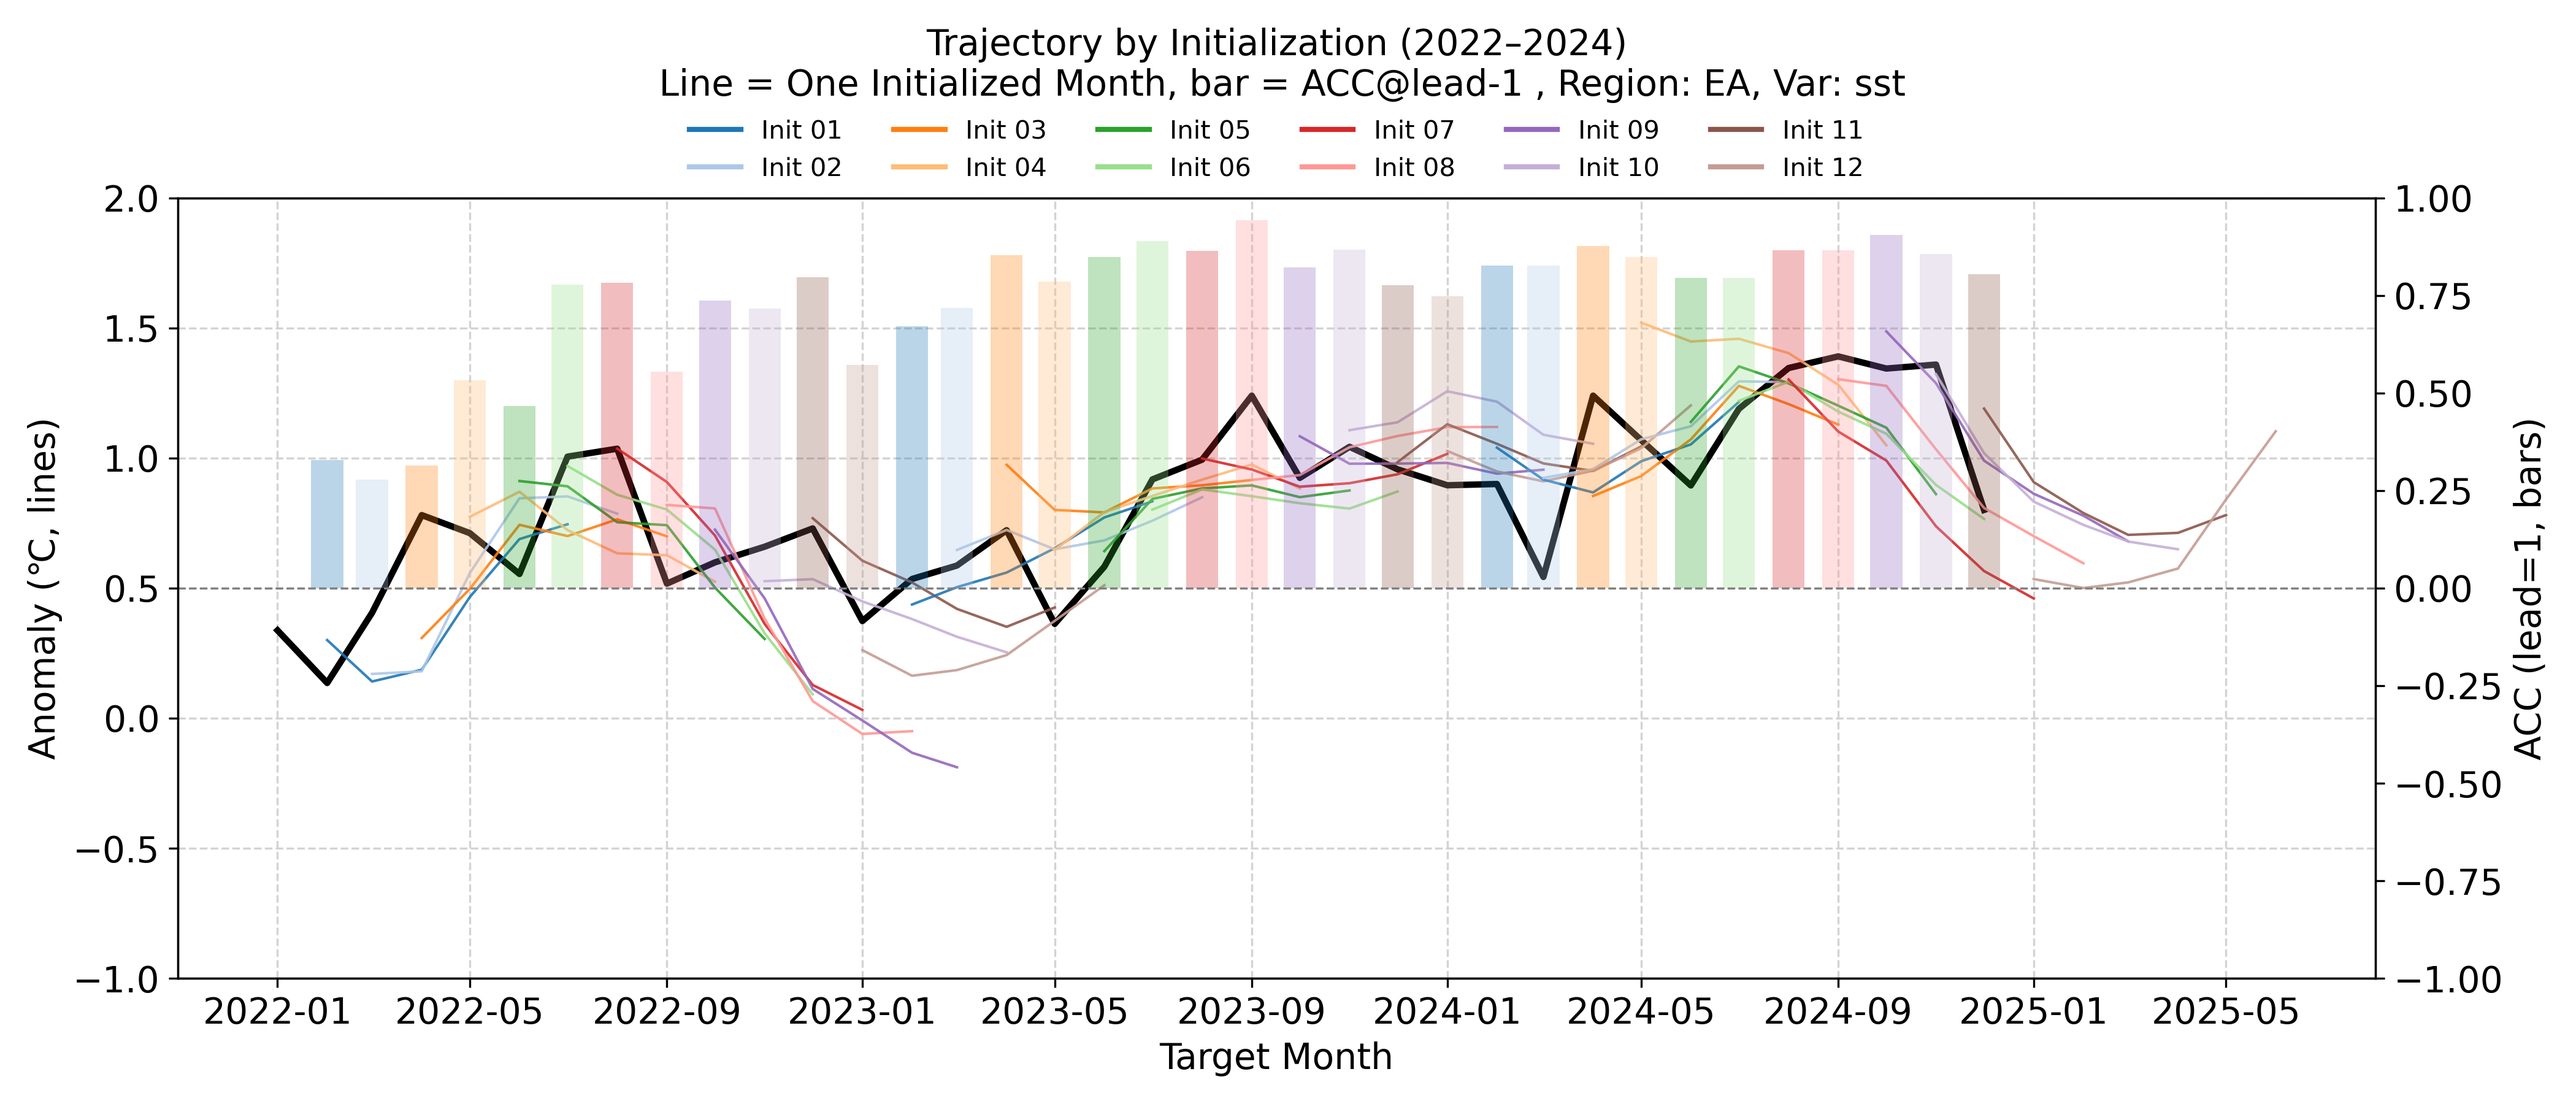
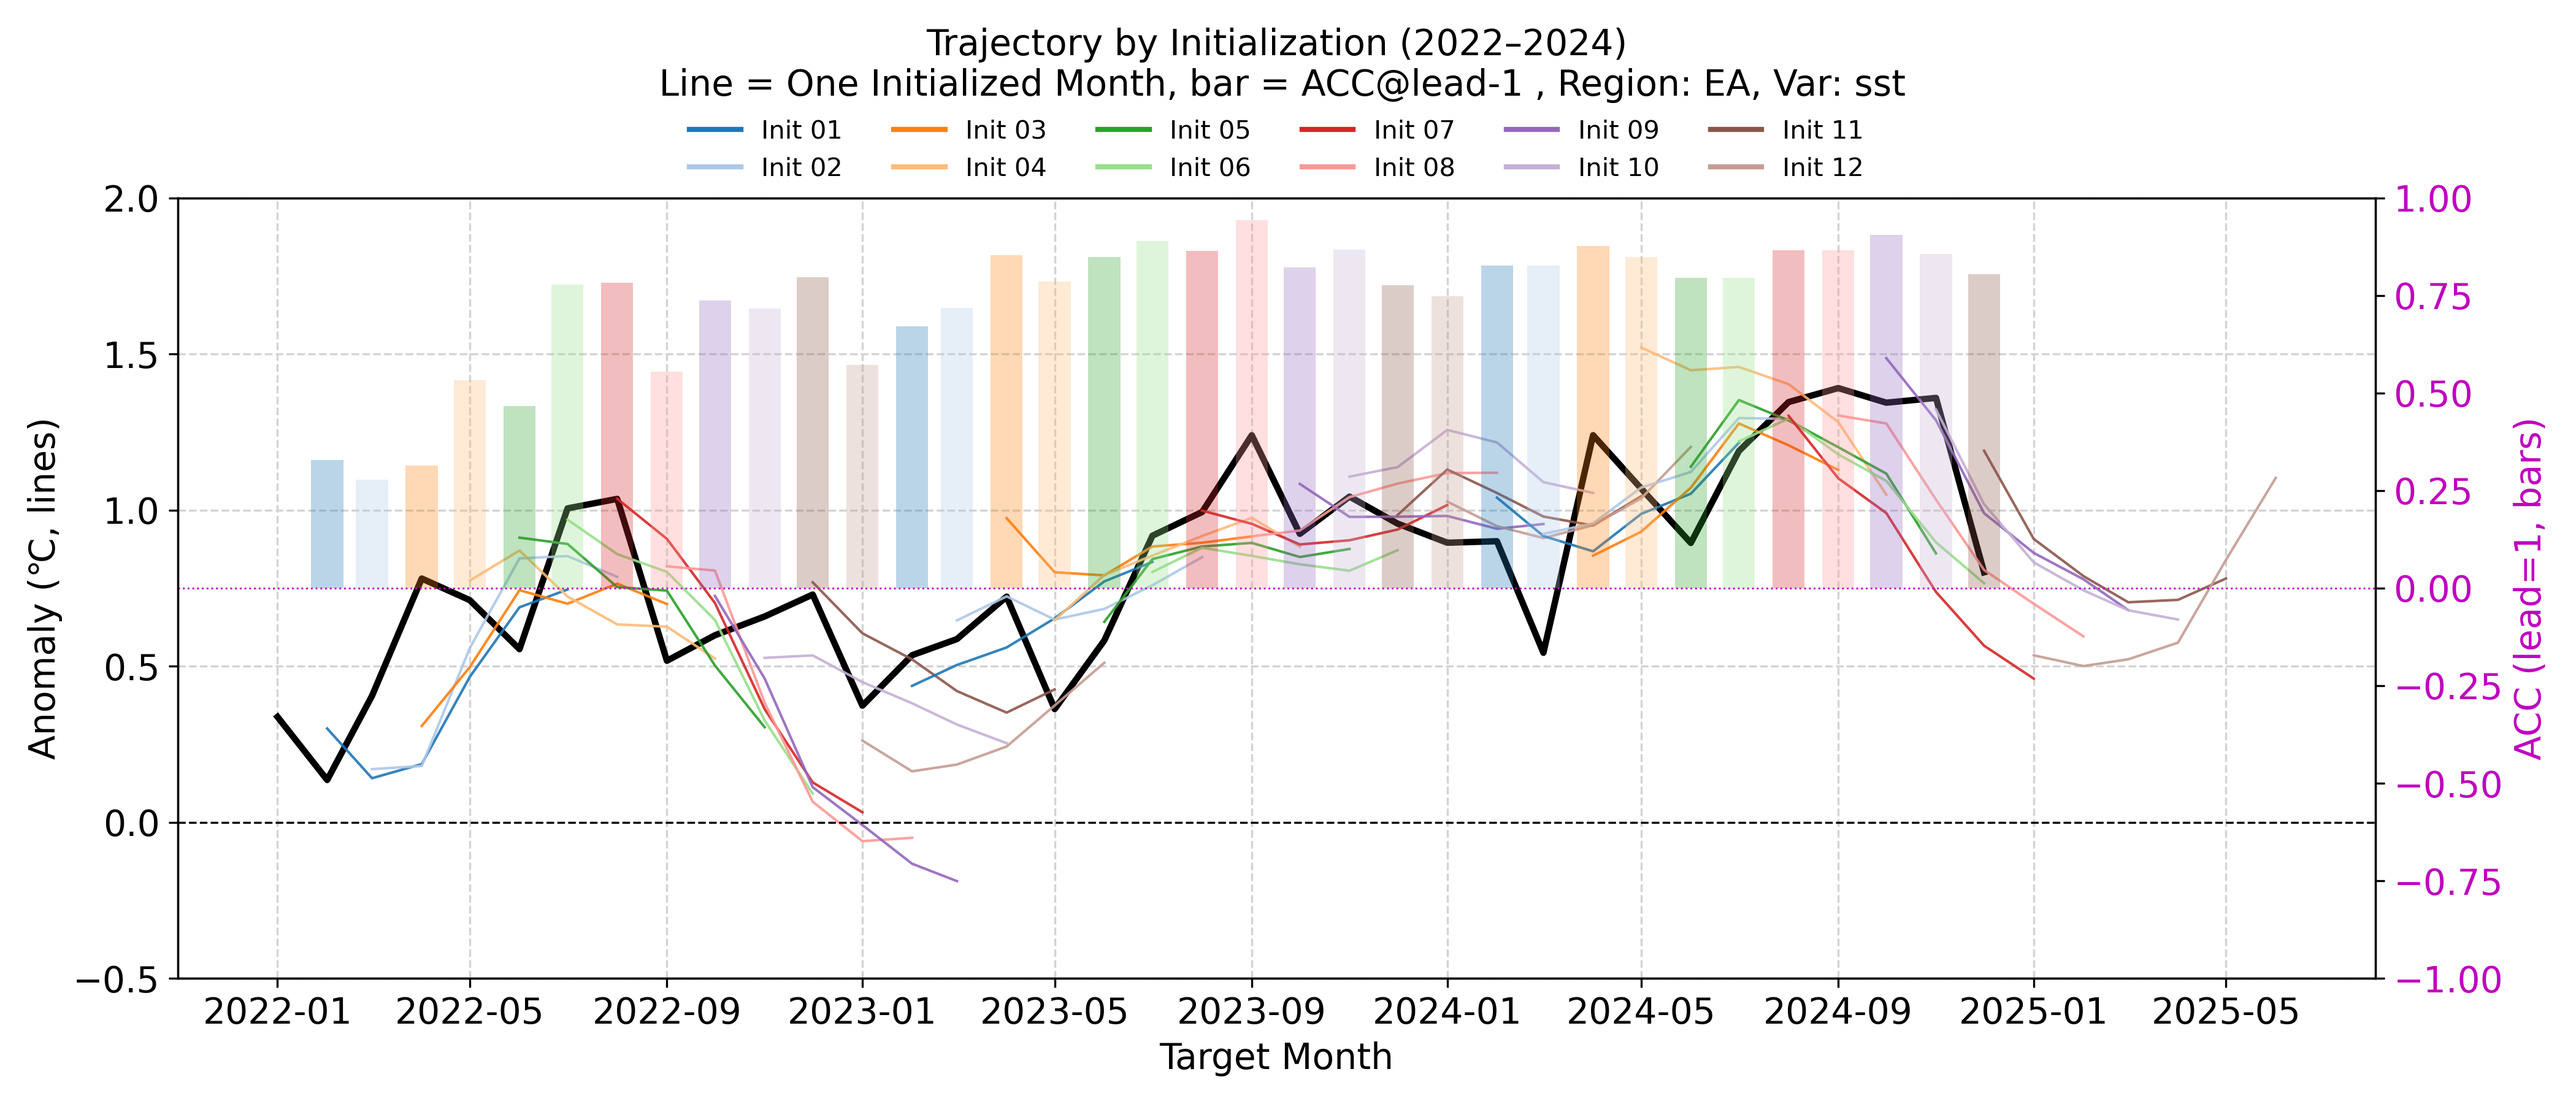
traj figure updates

diff --git a/fcstverif/src/plotting/plotDetermSkillScore.py b/fcstverif/src/plotting/plotDetermSkillScore.py
@@ -249,6 +249,7 @@ def plot_skill_target_month(var, target_year, region_name, score, data_dir, fig_
         else:
             logger.info(f"[WARN] No data to plot for target month {target_date.strftime('%Y-%m')}")
 
+
 def plot_trajectory_w_acc_by_initialized_line(var: str, region: str, fig_dir: str, data_dir: str, mode: str = "trajectory"):
     """
     전체 예측기간에 대해 초기화월별 시계열 또는 스킬라인을 그리는 함수
@@ -265,14 +266,14 @@ def plot_trajectory_w_acc_by_initialized_line(var: str, region: str, fig_dir: st
     ANOM_RANGE_MAP= {
     "GL": {
         "t2m": [-0.2, 1.4],
-        "sst": [-0.1, 1.0],
+        "sst": [-0.1, 0.8],
         "prcp": [-0.1, 0.1],
     },
     "EA": {
         "default": [-0.8, 2.0],
-        "t2m":[-0.1, 2.5],
+        "t2m":[-1.5, 2.5],
         "prcp":[-1, 1.5],
-        "sst":[-1,2],
+        "sst":[-0.5,2],
 
     }
 }
@@ -382,9 +383,10 @@ def plot_trajectory_w_acc_by_initialized_line(var: str, region: str, fig_dir: st
         bar_y = [acc_dict[k] for k in acc_dict]
         bar_colors = [month_colors[pd.to_datetime(k, format="%Y%m").month] for k in acc_dict]
         ax2.bar(bar_x, bar_y, color=bar_colors, alpha=0.3, width=20)
-        ax2.set_ylabel("ACC (lead=1, bars)", fontsize=14)
         ax2.set_ylim(-1, 1) # ACC ylim
-        ax2.axhline(0, linestyle="--", color="gray", lw=0.8)
+        ax2.set_ylabel("ACC (lead=1, bars)", fontsize=14, color='m')
+        ax2.axhline(0, linestyle=":", color="m", lw=0.7)
+        ax2.tick_params(axis='y', labelsize=14, labelcolor='m')
         ax1.set_title(f"Trajectory by Initialization ({year_start}–{year_end})\n Line = One Initialized Month, bar = ACC@lead-1 , Region: {region}, Var: {var}", 
                       fontsize=14, pad=40)
         ax1.set_ylim(anom_range) # Anomaly ylim
@@ -400,7 +402,7 @@ def plot_trajectory_w_acc_by_initialized_line(var: str, region: str, fig_dir: st
             [d.strftime('%Y-%m') for d in xticks],
             ha='center', fontsize=12
         )
-        ax2.tick_params(axis='y', labelsize=14)
+        
 
     elif mode == 'skill':
         ax1.set_title(f"ACC Timeseries ({year_start}–{year_end})\nEach Line = One Initialized Month , Region: {region}, Var: {var}", 
@@ -408,10 +410,11 @@ def plot_trajectory_w_acc_by_initialized_line(var: str, region: str, fig_dir: st
         ax1.axhline(0, linestyle="--", color="gray", lw=0.8)
     
     ax1.set_xlabel("Target Month", fontsize=14)
-    ax1.set_ylabel(xlabel, fontsize=14)
+    ax1.set_ylabel(xlabel, fontsize=14, color='k')
     ax1.grid(True, linestyle='--', color='lightgrey')
     ax1.tick_params(axis='y', labelsize=14)
     ax1.tick_params(axis='x', labelsize=14)
+    ax1.axhline(0, linestyle='--', color='k', lw=0.8)
      
     legend_elements = [
         Line2D([0], [0], color=month_colors[m], lw=2, label=f'Init {m:02d}')

diff --git a/fcstverif/config.py b/fcstverif/config.py
@@ -15,7 +15,7 @@ clim_end   = 2020
 
 # --- 변수 목록 ---
 #VARIABLES = ['sst']
-VARIABLES = ['t2m', 'prcp']
+VARIABLES = ['t2m', 'prcp', 'sst']
 #VARIABLES = ['t', 'z']
 
 # --- 검증 영역 정의 ---
@@ -37,16 +37,16 @@ model = 'GS6'
 # --- plot list ---
 enabled_plots = [
     # -- detailed plots
-    "init_line",       # Timeseries of deterministic skill score by lead, every initialized month
-    "target_month",    # Timeseries of deterministic skill score by lead, every target month
-    "target_pattern",  # Spatial distribution comparison btw obs and fcst anomaly, every target month
-    "rpss_map",        # (Probabilistic skill score) RPSS map, every initialized month
-    "roc_curve",        # (Probabilistic skill score) ROC curve with AUC, every initialized month
+    #"init_line",       # Timeseries of deterministic skill score by lead, every initialized month
+    #"target_month",    # Timeseries of deterministic skill score by lead, every target month
+    #"target_pattern",  # Spatial distribution comparison btw obs and fcst anomaly, every target month
+    #"rpss_map",        # (Probabilistic skill score) RPSS map, every initialized month
+    #"roc_curve",        # (Probabilistic skill score) ROC curve with AUC, every initialized month
     # -- overview plots
-    "target_line",     # Timeseries of all forecast initialization (ACC)
+    #"target_line",     # Timeseries of all forecast initialization (ACC)
     "traj_line",        # Trajectory lines of all forecast initialization
-    "init_heatmap",    # Deterministic skill score heatmap
-    "cate_heatmap",    # (only t2m, prcp) Deterministic Multi-category score heat map, every year
+    #"init_heatmap",    # Deterministic skill score heatmap
+    #"cate_heatmap",    # (only t2m, prcp) Deterministic Multi-category score heat map, every year
     ]
 #================================================
 
